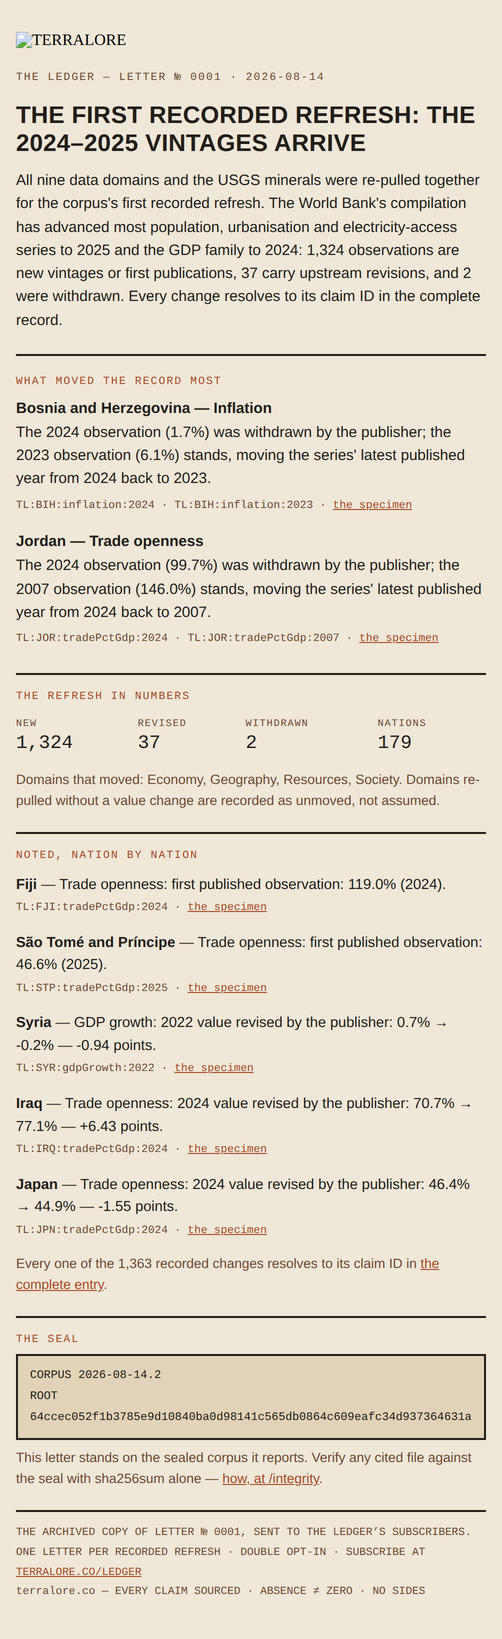
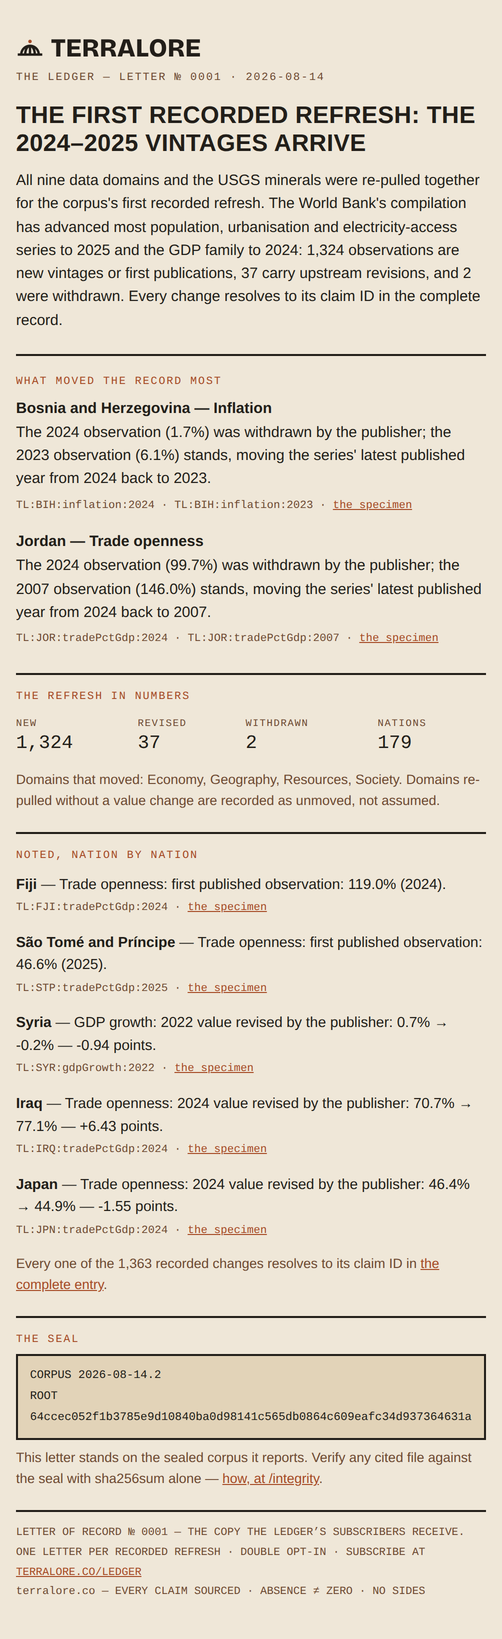
Honesty pass + the record of the ship: issued, not sent, until it sends
The letter, its twin and the entry link said "sent" — № 0001 is issued and
archived, and the send is still ahead of it (one Zoho app password away).
Reworded everywhere the claim appeared, letter rebuilt, resealed
(2026-08-14.4). Deploy log records the ship: live hashes matched, the
capture loop proven on the live form no-JS, the dockerignore icon fix, and
the floors holding at 98/100/100/100 with the bed in place. Screenshots
join the design record with the stamp resolving live.

Changed region(s): [[0.0299, 0.0, 0.2689, 0.0311], [0.2988, 0.0, 0.3884, 0.0311]]

diff --git a/public/ledger/letter/0001.html b/public/ledger/letter/0001.html
@@ -95,7 +95,7 @@
   <div style="font-family:-apple-system,'Segoe UI',Roboto,Helvetica,Arial,sans-serif;font-size:13.5px;line-height:1.55;color:#6E4A32;margin-top:8px;">This letter stands on the sealed corpus it reports. Verify any cited file against the seal with sha256sum alone &mdash; <a href="https://terralore.co/integrity" style="color:#A64B26;">how, at /integrity</a>.</div>
 </td></tr>
 <tr><td style="border-top:2px solid #221E19;padding:12px 0 28px;">
-  <div style="font-family:'Courier New',Courier,monospace;font-size:11px;line-height:1.8;color:#6E4A32;">THE ARCHIVED COPY OF LETTER &#8470; 0001, SENT TO THE LEDGER&#8217;S SUBSCRIBERS.<br />ONE LETTER PER RECORDED REFRESH &middot; DOUBLE OPT-IN &middot; SUBSCRIBE AT <a href="https://terralore.co/ledger" style="color:#A64B26;">TERRALORE.CO/LEDGER</a><br />terralore.co &mdash; EVERY CLAIM SOURCED &middot; ABSENCE &ne; ZERO &middot; NO SIDES</div>
+  <div style="font-family:'Courier New',Courier,monospace;font-size:11px;line-height:1.8;color:#6E4A32;">LETTER OF RECORD &#8470; 0001 &mdash; THE COPY THE LEDGER&#8217;S SUBSCRIBERS RECEIVE.<br />ONE LETTER PER RECORDED REFRESH &middot; DOUBLE OPT-IN &middot; SUBSCRIBE AT <a href="https://terralore.co/ledger" style="color:#A64B26;">TERRALORE.CO/LEDGER</a><br />terralore.co &mdash; EVERY CLAIM SOURCED &middot; ABSENCE &ne; ZERO &middot; NO SIDES</div>
 </td></tr><!--LETTER-BODY-END-->
 </table>
 </td></tr>

diff --git a/app/ledger/letter/[slug]/page.tsx b/app/ledger/letter/[slug]/page.tsx
@@ -106,8 +106,8 @@ export default async function LedgerLetterPage({
               The letter of record № {entry.slug}
             </h1>
             <p className="mt-3 max-w-2xl font-sans text-[14px] leading-relaxed text-umber">
-              The digest below is the email as sent to the Ledger&rsquo;s subscribers —
-              archived verbatim, with its{" "}
+              The digest below is letter № {entry.slug} exactly as the Ledger&rsquo;s
+              subscribers receive it — archived verbatim, with its{" "}
               <a
                 href={`/ledger/letter/${entry.slug}.txt`}
                 className="font-mono text-[12.5px] text-oxide underline underline-offset-2"

diff --git a/lib/geo.ts b/lib/geo.ts
@@ -563,7 +563,7 @@ function ledgerTwin(e: LedgerEntry): Twin {
 
   if (letterSlugs().includes(e.slug)) {
     L.push(
-      `This entry was also sent as the Ledger Letter (issue № ${e.slug}) — archived at ` +
+      `This entry is also issued as the Ledger Letter (issue № ${e.slug}) — archived at ` +
         `${SITE_URL}${routes.ledgerLetter(e.slug)}, plain text at ${SITE_URL}/ledger/letter/${e.slug}.txt.`,
       "",
     );

diff --git a/app/ledger/[slug]/page.tsx b/app/ledger/[slug]/page.tsx
@@ -306,7 +306,7 @@ export default async function LedgerEntryPage({
                   prefetch={false}
                   className="text-oxide"
                 >
-                  Sent as the Ledger Letter — read issue № {e.slug} →
+                  Issued as the Ledger Letter — read № {e.slug} →
                 </Link>
               </p>
             )}

diff --git a/docs/deploy-log.md b/docs/deploy-log.md
@@ -6,6 +6,46 @@ build and the checks below say so.
 
 ---
 
+## 2026-08-14 — the Ledger Letter (f570a3b + 2 follow-ups)
+
+The owned-audience layer: self-hosted listmonk (Coolify service
+`j8lskiymw24…`, v6.2.0 pinned, caps 1.0/512M + 0.5/256M), the list "The
+Ledger" (double opt-in), the capture bed (E16) on /ledger + entries + the
+front door, /privacy, and issue № 0001 of the digest as committed
+artifacts + archive page. Capture is first-party: a priority-1000 proxy
+file routes `terralore.co/subscription/*` to the container — no DNS wait.
+
+- **13:03:36Z** pushed `main` (`f570a3b`); **13:06:38Z** the new seal
+  (2026-08-14.3) served live; letter page 200 from 13:07:15Z.
+- Verification battery: `/ledger/letter/0001` + `.txt`, `/privacy`,
+  `/ledger` all 200; live bytes of the letter artifacts and
+  `/integrity.json` **hash-identical** to the committed files; sitemap
+  carries both new URLs; the entry twin carries the letter line.
+- **Live no-JS capture proof (13:11Z)**: `curl -X POST
+  https://terralore.co/subscription/form` → 200 designed confirmation page
+  ("An e-mail has been sent…" under the TERRALORE stamp) → opt-in email in
+  the mailpit sink → subscriber `confirmed` via the opt-in link →
+  test subscriber deleted. The identical loop was proven pre-deploy
+  end-to-end inside the box.
+- **Found & fixed in flight**: `.dockerignore`'s `**/*.png` had been
+  eating `app/icon1.png` + `public/icon-192/512.png` since the icon
+  rename — the manifest icons and the JSON-LD logo were 404 in
+  production. Negation list updated (with the new letter stamp);
+  **13:10:48Z** all four PNGs live 200.
+- Honesty pass after first deploy: letter/entry/twin copy said "sent" —
+  issue № 0001 is issued and archived but not yet sent (send awaits the
+  Zoho app password, deliverability doc §2–3). Reworded to "issued /
+  the copy subscribers receive", letter rebuilt, resealed 2026-08-14.4.
+- Lighthouse mobile (pre-deploy, production build): landing 98/100/100/100,
+  ledger 98/100/100/100 — floors hold with the capture bed.
+- Not sent, by design: sending is a deliberate act
+  (`scripts/send-letter.mjs`, docs/newsletter-ops.md §2) and waits on the
+  user's Zoho click-work (docs/newsletter-deliverability.md — DNS A record
+  `listmonk`, DMARC, `ledger@terralore.co` + app password).
+- IndexNow after the final deploy: `/privacy`, `/ledger/letter/0001`.
+
+---
+
 ## 2026-08-14 — the Living Record v1 (b99e05f → e233c03)
 
 Seven commits: the claim-identity scheme (doc before code, D14), Layer 1

diff --git a/public/ledger/0001.md b/public/ledger/0001.md
@@ -29,6 +29,6 @@ Noted in the record:
 
 The complete claim-by-claim change record (1,363 changes with claim IDs, prior and new values, and origins): https://terralore.co/ledger/0001.json
 
-This entry was also sent as the Ledger Letter (issue № 0001) — archived at https://terralore.co/ledger/letter/0001, plain text at https://terralore.co/ledger/letter/0001.txt.
+This entry is also issued as the Ledger Letter (issue № 0001) — archived at https://terralore.co/ledger/letter/0001, plain text at https://terralore.co/ledger/letter/0001.txt.
 
 Citation template: Terralore, "Terralore Ledger — entry 1, 2026-08-14", terralore.co/ledger/0001, retrieved <YYYY-MM-DD>.
